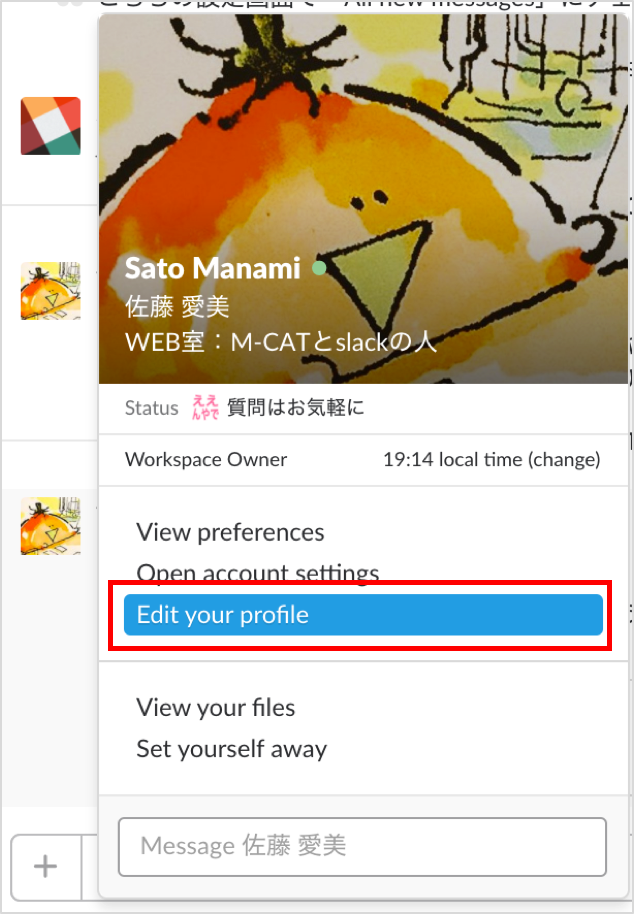
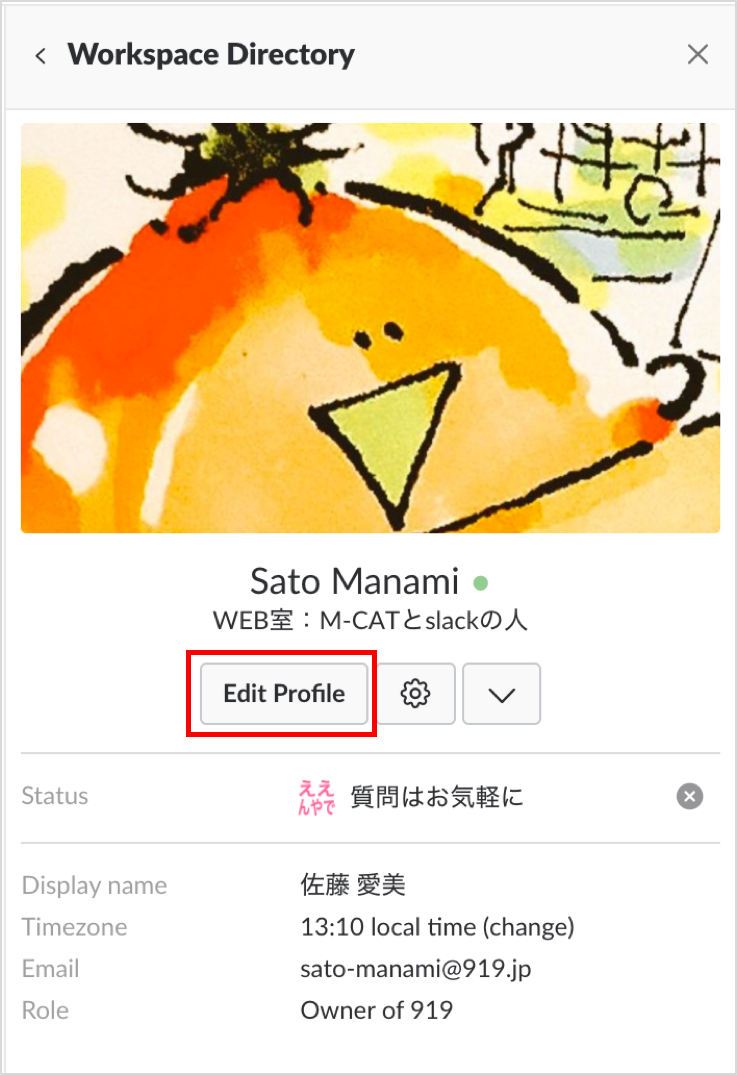
update pitch: edit profile

diff --git a/PITCHME.md b/PITCHME.md
@@ -77,17 +77,18 @@
 
 +++
 
-#### 1. 自分のアイコンをクリック  
+#### 1. チャンネルメニューのチーム名をクリックして<br>「Profile & account」をクリック  
 <img src="images/08_edit-profile.png" alt="プロフィール変更手順-1">
 
 +++
 
-#### 2. 「Edit your Profile」をクリック  
+#### 2. サイドバーから「Edit Profile」をクリック  
 <img src="images/09_edit-profile.png" alt="プロフィール変更手順-2">
 
 +++
 
 #### 3. 変更が完了したら「Save Changes」をクリック  
+最低限アイコンを設定すると見分けやすくて◎  
 <img src="images/10_edit-profile.png" alt="プロフィール変更手順-3">
 
 ---
@@ -124,7 +125,7 @@
 
 +++
 
-@ を入力すると候補が出ます  
+#### @ を入力すると候補が出ます
 <img src="images/17_mention.png" alt="メンション">
 
 +++
